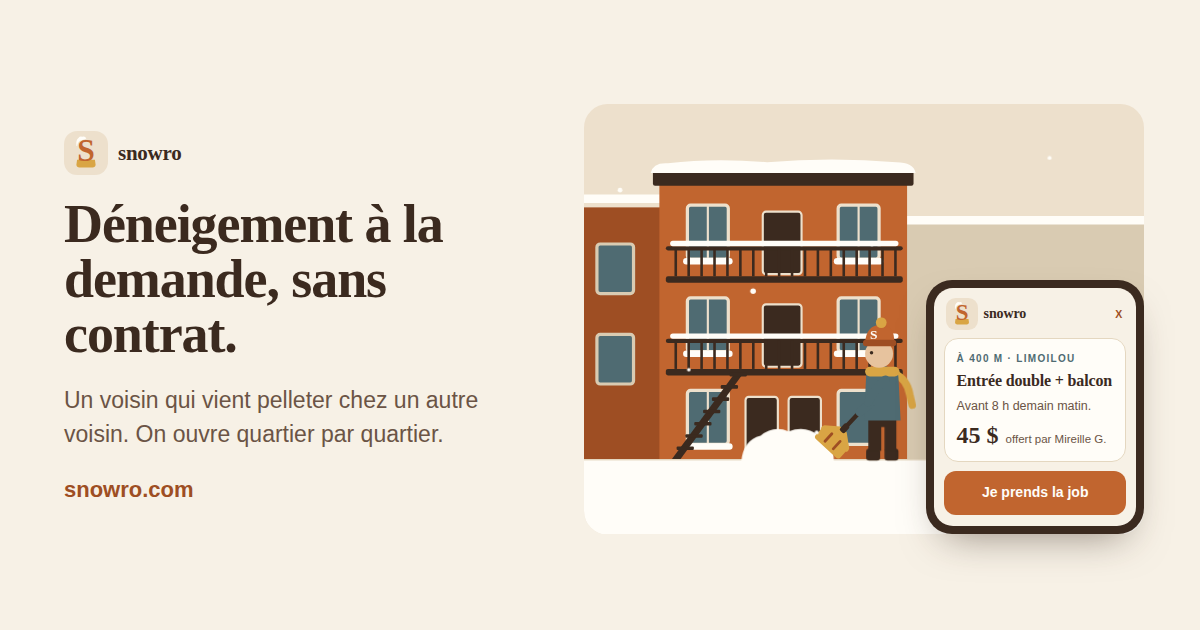
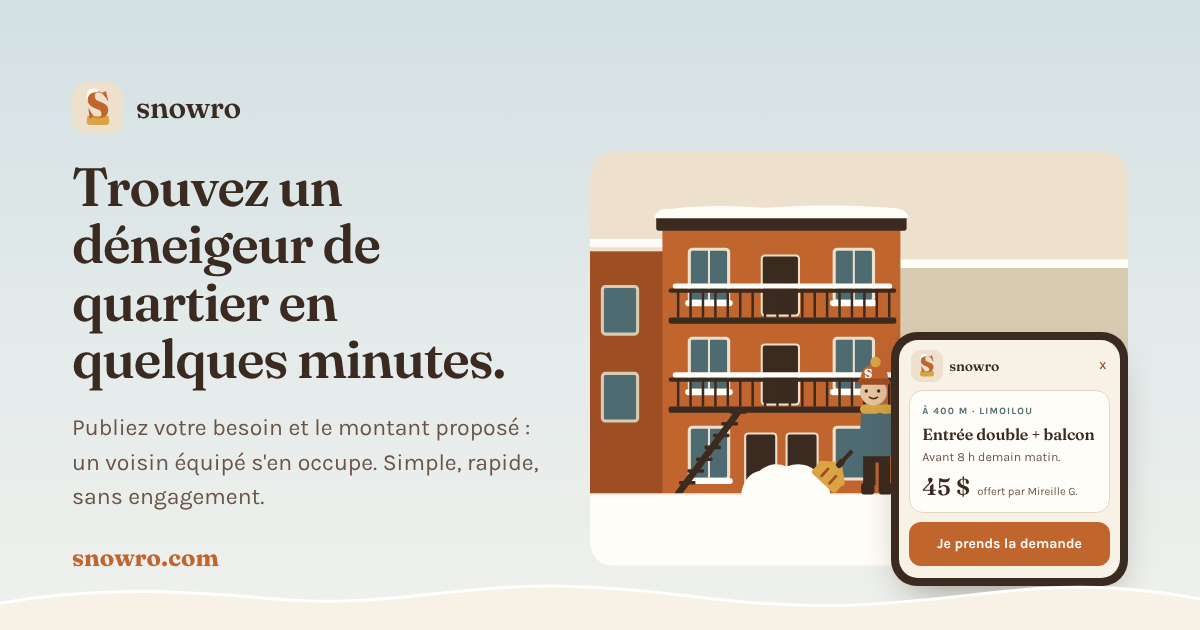
Aperçu partagé (OG) raccord avec le héros actuel
- Nouvelle image public/og-snowro.png (1200 x 630) : titre « Trouvez un
  déneigeur de quartier en quelques minutes. », ciel, chute et banc de
  neige, triplex et téléphone sur « Je prends la demande ».
- Gabarit src/pages/ApercuPartage.jsx (route /apercu-partage, en
  développement seulement) bâti avec les composants du héros, et script
  scripts/generer-apercu-partage.mjs (`npm run og`) pour régénérer l'image.
- index.html : descriptions OG et Twitter alignées sur le chapeau du héros,
  texte alternatif de l'image mis à jour, « ?v=2 » pour forcer le
  rechargement par les plateformes.
- docs/architecture.md : procédure documentée.

Claude-Session: https://claude.ai/code/session_011JrDykLvQD6DboqyYsrrzr

diff --git a/index.html b/index.html
@@ -14,7 +14,9 @@
     <link rel="canonical" href="https://snowro.com/" />
 
     <!-- Aperçu quand le lien est partagé (Facebook, Messenger, texto, etc.).
-         Image : public/og-snowro.png, 1200 x 630. -->
+         Image : public/og-snowro.png, 1200 x 630, régénérée avec `npm run og`
+         (gabarit src/pages/ApercuPartage.jsx, repris du héros). Le « ?v= » force
+         les plateformes à recharger l'image quand elle change. -->
     <meta property="og:type" content="website" />
     <meta property="og:site_name" content="Snowro" />
     <meta property="og:locale" content="fr_CA" />
@@ -22,18 +24,18 @@
     <meta property="og:title" content="Snowro · Trouvez un déneigeur de quartier en quelques minutes" />
     <meta
       property="og:description"
-      content="Un escalier glacé, une entrée à souffler après la tempête ? Publiez votre besoin et le montant proposé : un voisin équipé s'en occupe. Simple, rapide, sans engagement."
+      content="Un escalier glacé, l'accès au cabanon bloqué ou une entrée à souffler après la tempête ? Publiez votre besoin et le montant proposé : un voisin équipé d'une pelle ou d'une souffleuse s'en occupe. Simple, rapide, sans engagement."
     />
-    <meta property="og:image" content="https://snowro.com/og-snowro.png" />
+    <meta property="og:image" content="https://snowro.com/og-snowro.png?v=2" />
     <meta property="og:image:type" content="image/png" />
     <meta property="og:image:width" content="1200" />
     <meta property="og:image:height" content="630" />
-    <meta property="og:image:alt" content="Un déneigeur de quartier pellette devant un triplex enneigé, son téléphone affiche une demande Snowro." />
+    <meta property="og:image:alt" content="Snowro : Trouvez un déneigeur de quartier en quelques minutes. Un déneigeur pellette devant un triplex de Limoilou, son téléphone affiche la demande « Entrée double + balcon, 45 $ »." />
     <meta name="twitter:card" content="summary_large_image" />
     <meta name="twitter:title" content="Snowro · Trouvez un déneigeur de quartier en quelques minutes" />
-    <meta name="twitter:description" content="Un escalier glacé, une entrée à souffler après la tempête ? Publiez votre besoin et le montant proposé : un voisin équipé s'en occupe. Simple, rapide, sans engagement." />
-    <meta name="twitter:image" content="https://snowro.com/og-snowro.png" />
-    <meta name="twitter:image:alt" content="Un déneigeur de quartier pellette devant un triplex enneigé, son téléphone affiche une demande Snowro." />
+    <meta name="twitter:description" content="Un escalier glacé, l'accès au cabanon bloqué ou une entrée à souffler après la tempête ? Publiez votre besoin et le montant proposé : un voisin équipé d'une pelle ou d'une souffleuse s'en occupe. Simple, rapide, sans engagement." />
+    <meta name="twitter:image" content="https://snowro.com/og-snowro.png?v=2" />
+    <meta name="twitter:image:alt" content="Snowro : Trouvez un déneigeur de quartier en quelques minutes. Un déneigeur pellette devant un triplex de Limoilou, son téléphone affiche la demande « Entrée double + balcon, 45 $ »." />
   </head>
   <body>
     <div id="root"></div>

diff --git a/src/pages/ApercuPartage.jsx b/src/pages/ApercuPartage.jsx
@@ -1,0 +1,43 @@
+import SnowroSymbol from "../components/brand/SnowroSymbol";
+import HeroIllustration from "./landing/HeroIllustration";
+import { BancDeNeige, ChuteDeNeige } from "./landing/Decors";
+import "./Landing.css";
+import "./ApercuPartage.css";
+
+// Gabarit de l'image d'aperçu partagée (Open Graph / Twitter), 1200 x 630.
+// Page de développement seulement : la route /apercu-partage n'existe qu'en
+// `vite dev` (voir App.jsx). Elle reprend tel quel le héros de la page
+// d'accueil (ciel, chute de neige, banc de neige, illustration, titre) pour que
+// l'aperçu reste raccord avec ce que la personne verra en cliquant.
+// Pour régénérer public/og-snowro.png : `npm run og` (voir
+// scripts/generer-apercu-partage.mjs). La capture se fait avec
+// prefers-reduced-motion pour figer l'illustration sur l'écran « Je prends la
+// demande » et l'amas de neige intact.
+
+export default function ApercuPartage() {
+  return (
+    <div className="apercu-partage landing__hero-bande">
+      <ChuteDeNeige className="decor-chute--ciel" />
+      <div className="apercu-partage__contenu">
+        <div className="apercu-partage__texte">
+          <div className="apercu-partage__marque">
+            <SnowroSymbol variant="x" neige surTuile size={52} />
+            <span className="landing__logo-texte">snowro</span>
+          </div>
+          <h1 className="landing__hero-titre apercu-partage__titre">
+            Trouvez un déneigeur de quartier en quelques minutes.
+          </h1>
+          <p className="apercu-partage__chapeau">
+            Publiez votre besoin et le montant proposé : un voisin équipé s'en occupe. Simple, rapide,
+            sans engagement.
+          </p>
+          <span className="apercu-partage__url">snowro.com</span>
+        </div>
+        <div className="apercu-partage__illustration">
+          <HeroIllustration />
+        </div>
+      </div>
+      <BancDeNeige />
+    </div>
+  );
+}

diff --git a/src/pages/ApercuPartage.css b/src/pages/ApercuPartage.css
@@ -1,0 +1,84 @@
+/* Gabarit 1200 x 630 de l'image d'aperçu partagée (voir ApercuPartage.jsx).
+   Les couleurs, la police et l'illustration viennent du héros : seul le cadrage
+   est propre à ce gabarit. */
+
+.apercu-partage {
+  width: 1200px;
+  height: 630px;
+  min-height: 0;
+  overflow: hidden;
+  display: block;
+}
+
+.apercu-partage__contenu {
+  position: relative;
+  z-index: 1;
+  height: 100%;
+  box-sizing: border-box;
+  padding: 64px 72px 0;
+  display: grid;
+  grid-template-columns: 470px 1fr;
+  gap: 48px;
+  align-items: center;
+}
+
+.apercu-partage__texte {
+  display: flex;
+  flex-direction: column;
+  gap: 24px;
+  padding-bottom: 36px;
+}
+
+.apercu-partage__marque {
+  display: flex;
+  align-items: center;
+  gap: 12px;
+}
+
+.apercu-partage__marque .landing__logo-texte {
+  font-size: 30px;
+}
+
+.apercu-partage__titre {
+  font-size: 54px;
+  line-height: 1.06;
+}
+
+.apercu-partage__chapeau {
+  margin: 0;
+  font-size: 23px;
+  line-height: 1.5;
+  color: var(--color-texte-secondaire);
+}
+
+.apercu-partage__url {
+  font-family: var(--font-titrage);
+  font-weight: 700;
+  font-size: 24px;
+  color: var(--color-argile);
+}
+
+.apercu-partage__illustration {
+  align-self: end;
+  padding-bottom: 44px;
+}
+
+.apercu-partage__illustration .hero-illu {
+  max-width: 560px;
+  padding-bottom: 20px;
+}
+
+.apercu-partage .decor-banc {
+  height: 64px;
+}
+
+/* Le téléphone est un peu plus large que dans le héros pour que la carte de la
+   demande reste lisible une fois l'image réduite dans un fil d'actualité. */
+.apercu-partage .hero-illu .hero-illu__phone {
+  width: 44%;
+  max-width: 250px;
+}
+
+.apercu-partage .hero-illu__phone .landing__hero-phone-prix {
+  white-space: nowrap;
+}

diff --git a/src/App.jsx b/src/App.jsx
@@ -11,6 +11,7 @@ import Confidentialite from "./pages/Confidentialite";
 import Conditions from "./pages/Conditions";
 import NousEcrire from "./pages/NousEcrire";
 import CreditImpot from "./pages/creditImpot/CreditImpot";
+import ApercuPartage from "./pages/ApercuPartage";
 
 export default function App() {
   return (
@@ -22,6 +23,8 @@ export default function App() {
       <Route path="/conditions" element={<Conditions />} />
       <Route path="/nous-ecrire" element={<NousEcrire />} />
       <Route path="/credit-impot" element={<CreditImpot />} />
+      {/* Gabarit de l'image d'aperçu partagée (og-snowro.png), en développement seulement. */}
+      {import.meta.env.DEV && <Route path="/apercu-partage" element={<ApercuPartage />} />}
 
       <Route element={<Layout />}>
         <Route

diff --git a/docs/architecture.md b/docs/architecture.md
@@ -32,7 +32,12 @@ structure figées par `design_handoff_snowro_site`.
   politique de confidentialité). Aperçu des liens partagés : balises Open
   Graph et Twitter (`twitter:title`, `twitter:description`, `twitter:image`)
   dans `index.html`, image `public/og-snowro.png` (1200 x 630) ; icône
-  `public/apple-touch-icon.png` (180 x 180, fond plein) pour iOS.
+  `public/apple-touch-icon.png` (180 x 180, fond plein) pour iOS. L'image
+  d'aperçu est une capture du gabarit `src/pages/ApercuPartage.jsx` (route
+  `/apercu-partage`, servie en développement seulement) qui reprend le héros
+  de l'accueil ; `npm run og` la régénère (Playwright). Quand elle change,
+  incrémenter le `?v=` des balises `og:image` et `twitter:image` pour que
+  Facebook et compagnie la rechargent.
 
 ## Stack
 
